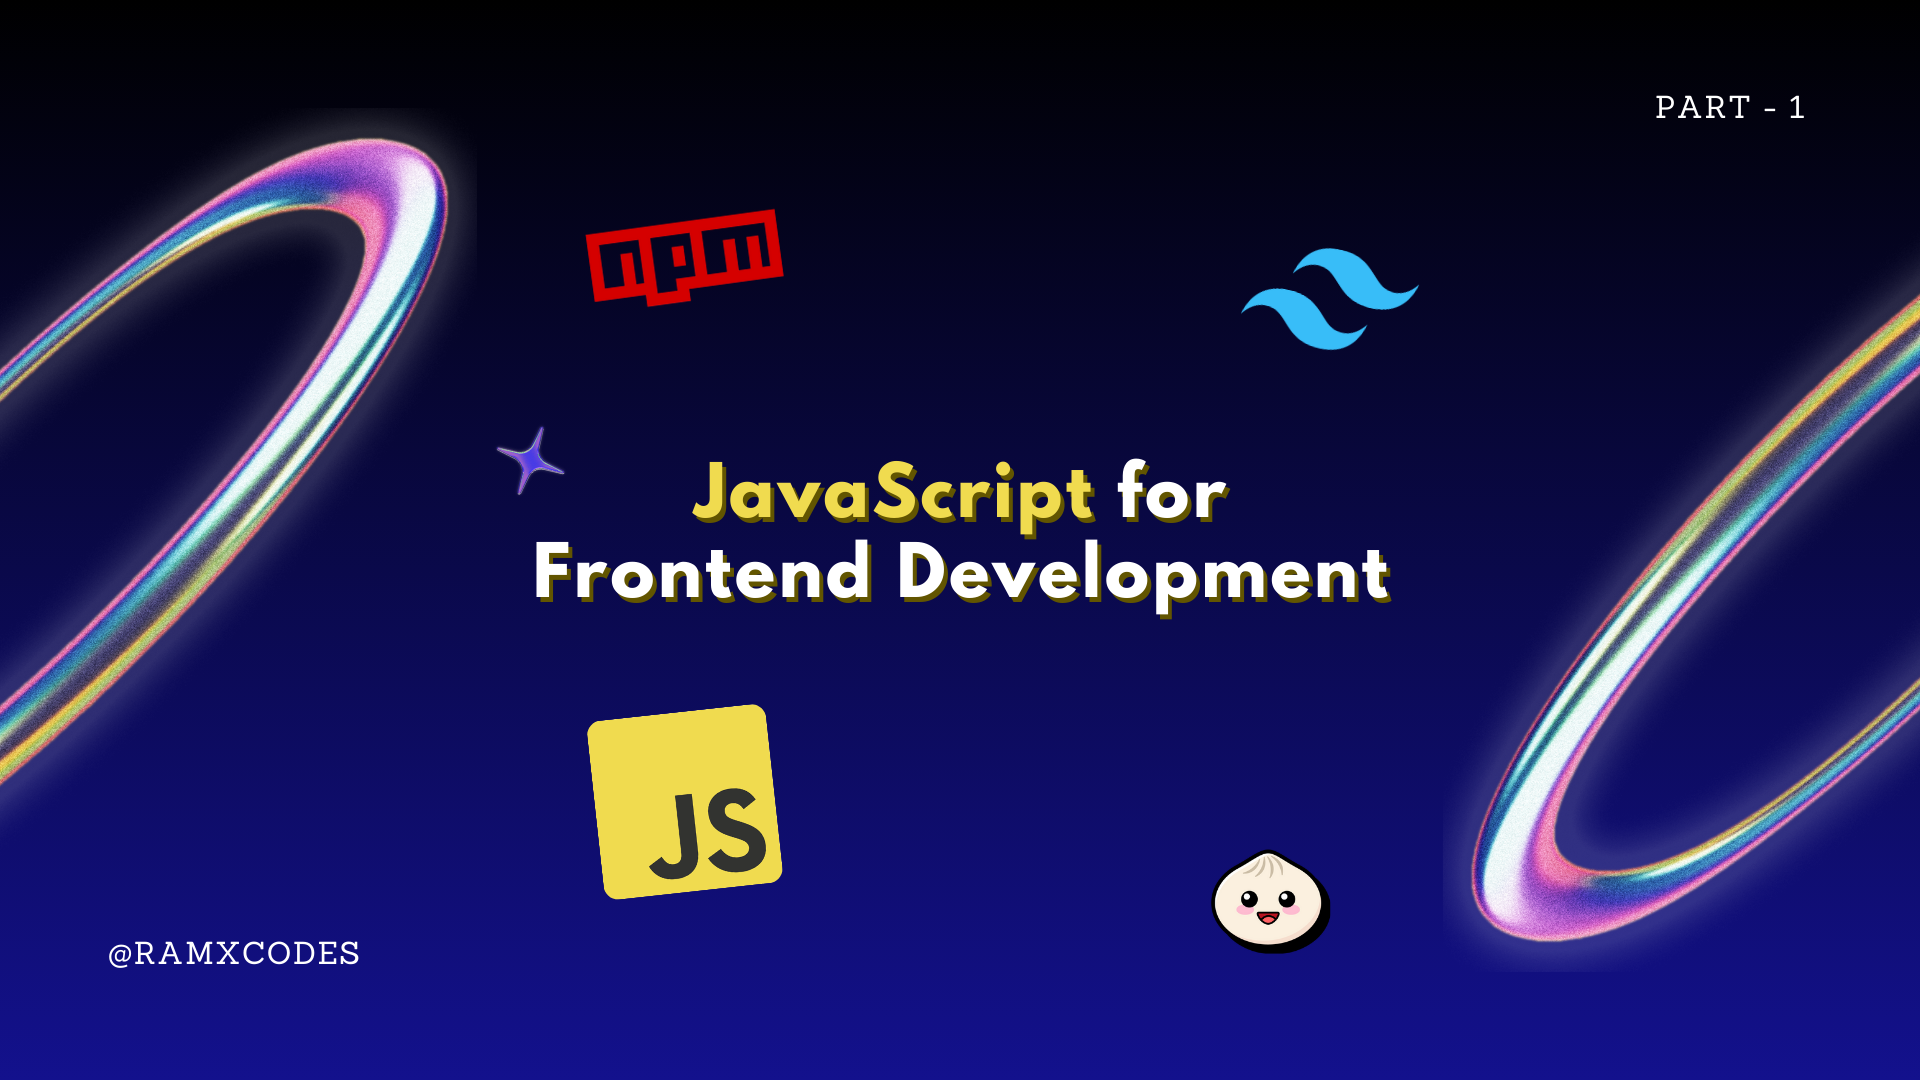
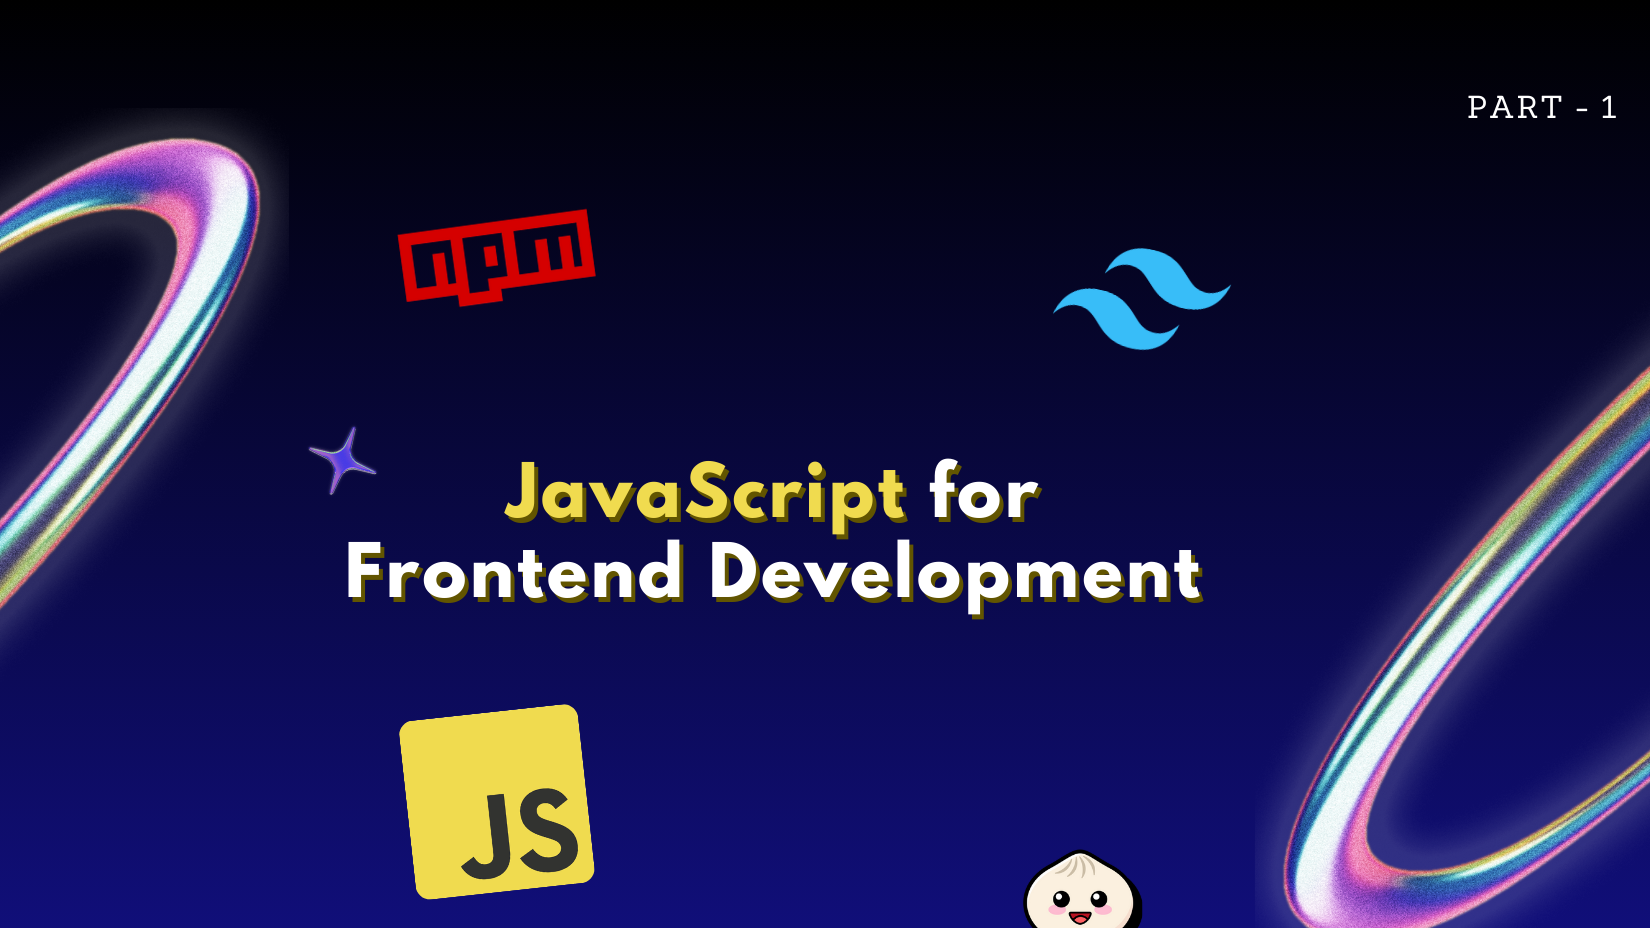
Updated Info

diff --git a/src/config/Gears.tsx b/src/config/Gears.tsx
@@ -7,7 +7,7 @@ import Phone from '@/components/svgs/devices/Phone';
 
 export const devices = [
   {
-    name: 'Apple MacBook Pro 16"in M4 48GB 512GB',
+    name: 'HP 15s - 8GB 512GB',
     icon: <Laptop className="size-4" />,
   },
   {
@@ -15,15 +15,15 @@ export const devices = [
     icon: <Monitor className="size-4" />,
   },
   {
-    name: 'Magic Keyboard',
+    name: 'HP Gaming Keyboard',
     icon: <Keyboard className="size-4" />,
   },
   {
-    name: 'Logitech MX Master 3S Mouse',
+    name: 'Logitech Mouse',
     icon: <Mouse className="size-4" />,
   },
   {
-    name: 'Crossbeats Roar 2.0 (Special Addition)',
+    name: 'Crossbeats Roar',
     icon: <Headphones className="size-4" />,
   },
   {
@@ -49,7 +49,7 @@ export const webExtensions = [
 ];
 
 export const software = [
-  { name: 'Dia', href: 'https://www.diabrowser.com/' },
+  { name: 'Brave', href: 'https://brave.com/' },
   { name: 'Notion', href: 'https://www.notion.so/desktop' },
   { name: 'TickTick', href: 'https://ticktick.com/download' },
   { name: 'OBS Studio', href: 'https://obsproject.com/' },
